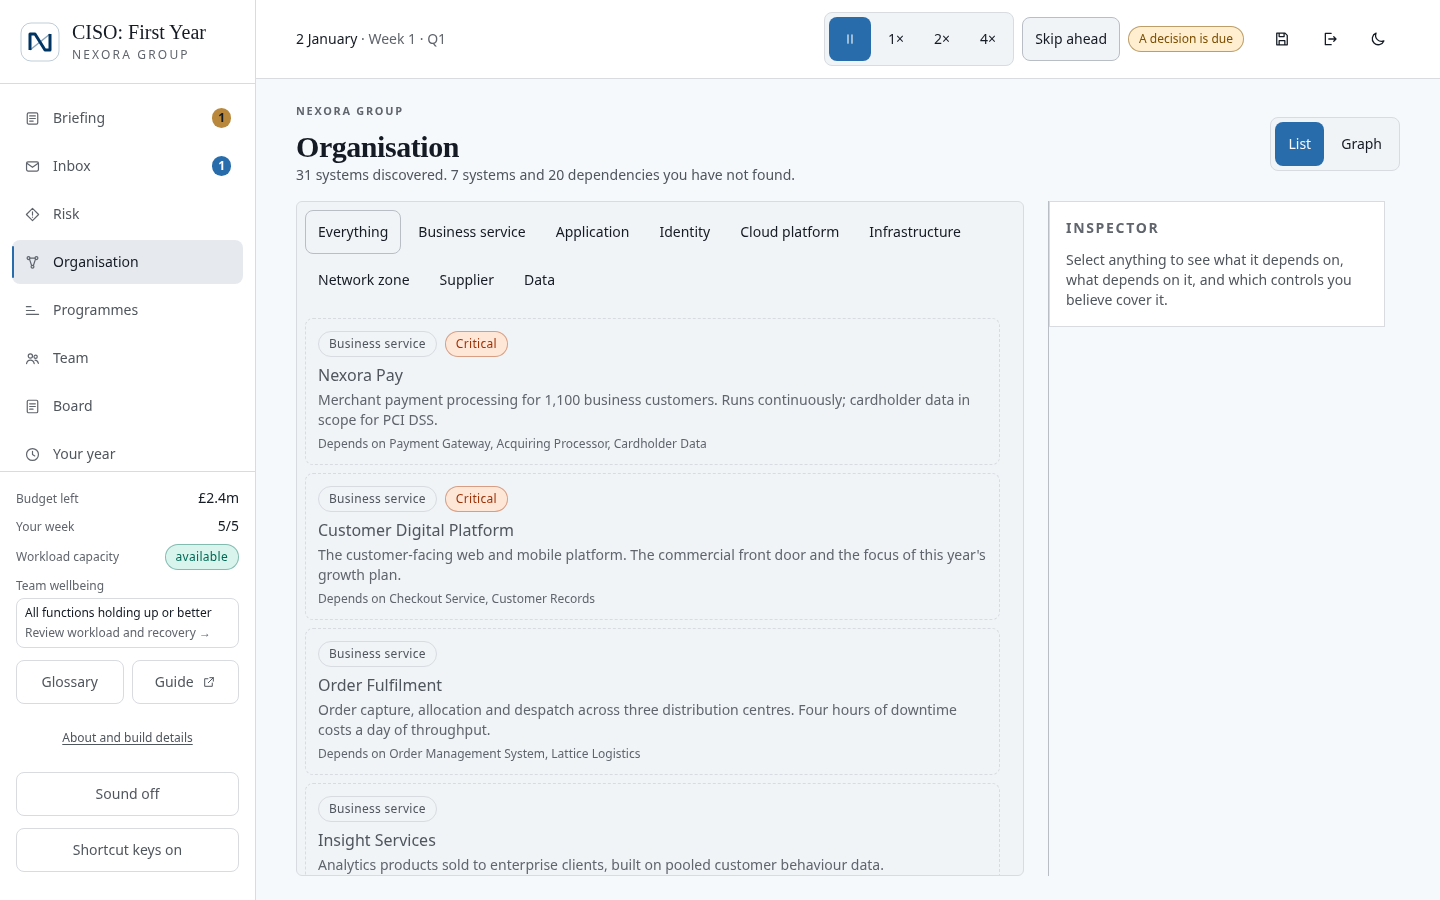
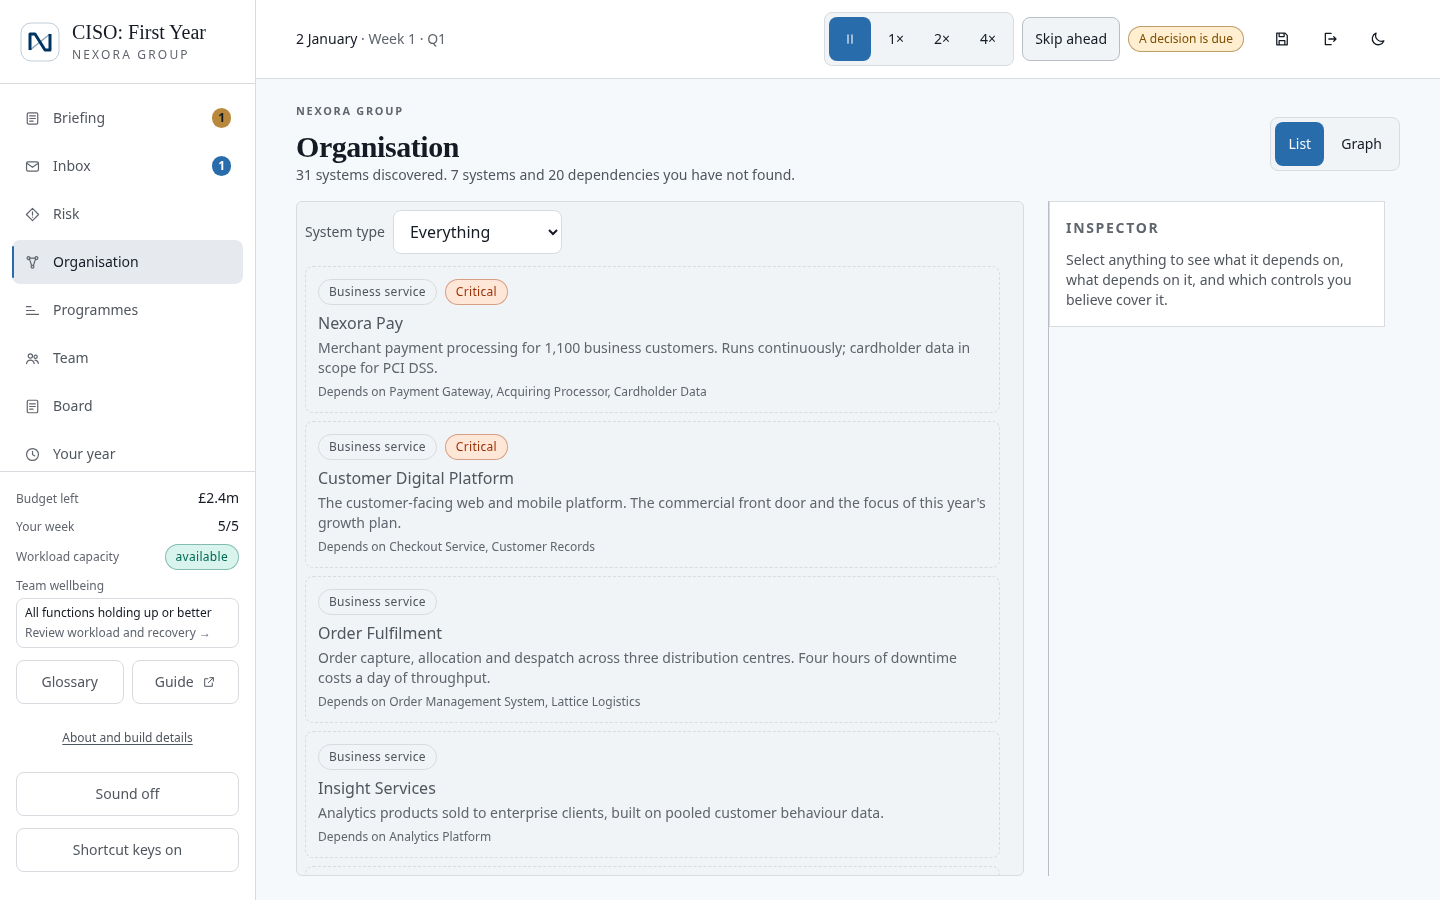
Compact workspace filters and improve stacked detail navigation

diff --git a/src/screens/organisation/OrganisationScreen.tsx b/src/screens/organisation/OrganisationScreen.tsx
@@ -40,7 +40,7 @@ export function OrganisationScreen() {
     if (!detailIsBelowTheList()) return
     requestAnimationFrame(() => {
       const heading = document.querySelector<HTMLElement>('[data-testid="inspector-heading"]')
-      heading?.scrollIntoView({ block: 'start' })
+      heading?.closest('.split-detail')?.scrollIntoView({ block: 'start' })
       heading?.focus({ preventScroll: true })
     })
   }
@@ -94,35 +94,13 @@ export function OrganisationScreen() {
       ) : (
         <div className="split-workspace grid grid-cols-1 gap-4 lg:grid-cols-[minmax(0,1fr)_minmax(0,22rem)]">
           <div className="split-pane space-y-3" tabIndex={0} role="region" aria-label="Organisation browser">
-            {/* Wraps from tablet width up. It scrolled sideways everywhere, and beside
-                the inspector it stopped at "Net" with nothing to say more followed. */}
-            <div
-              className="-mx-1 flex gap-1 overflow-x-auto overscroll-x-contain px-1 pb-1 sm:flex-wrap sm:overflow-visible"
-              role="group"
-              aria-label="Filter by type"
-            >
-              <Button
-                size="sm"
-                variant={filter === 'all' ? 'secondary' : 'ghost'}
-                className="compact min-h-9 shrink-0"
-                aria-pressed={filter === 'all'}
-                onClick={() => setFilter('all')}
-              >
-                Everything
-              </Button>
-              {types.map((type) => (
-                <Button
-                  key={type}
-                  size="sm"
-                  variant={filter === type ? 'secondary' : 'ghost'}
-                  className="compact min-h-9 shrink-0"
-                  aria-pressed={filter === type}
-                  onClick={() => setFilter(type)}
-                >
-                  {nodeTypeLabel(type)}
-                </Button>
-              ))}
-            </div>
+            <label className="flex flex-wrap items-center gap-2 text-sm text-ink-muted">
+              System type
+              <select value={filter} onChange={(event) => setFilter(event.target.value)} className="min-h-11 min-w-0 max-w-full rounded-lg border border-line bg-surface px-3 text-base text-ink">
+                <option value="all">Everything</option>
+                {types.map((type) => <option key={type} value={type}>{nodeTypeLabel(type)}</option>)}
+              </select>
+            </label>
 
             {/* The graph is an enhancement; the list is always available and is
                 the default on small screens (plan §27.1). */}
@@ -177,7 +155,7 @@ export function OrganisationScreen() {
                           <Badge tone="positive" glyph={false}>Checked</Badge>
                         )}
                       </div>
-                      <p className={cn('mt-1.5 font-medium', !node.verified && 'text-ink-muted')}>{node.name}</p>
+                      <p className={cn('choice-title mt-1.5 font-medium', !node.verified && 'text-ink-muted')}>{node.name}</p>
                       <p className={cn('mt-0.5 line-clamp-2 text-sm text-pretty', node.verified ? 'text-ink-muted' : 'text-ink-faint')}>
                         {(state?.year ?? 1) > 1 && <span className="font-medium">When you arrived: </span>}
                         {node.description}

diff --git a/src/components/risk/RiskDetail.tsx b/src/components/risk/RiskDetail.tsx
@@ -3,7 +3,7 @@
  * recorded assumptions, or give it to an executive to own (plan §12.3, §13).
  */
 import { useEffect, useRef, useState } from 'react'
-import { detailIsBelowTheList } from '@/lib/layout/stacked'
+import { detailIsBelowTheList, returnToWorkspaceList } from '@/lib/layout/stacked'
 import { Badge, Button, Card, CardBody, Dialog, Fact, SectionHeading } from '@/components/ui/primitives'
 import { useCampaignIndex, useGameStore } from '@/store/game-store'
 import { Terms } from '@/components/game/Terms'
@@ -12,7 +12,7 @@ import { RISK_BAND_LABEL } from '@/game/risk/bands'
 import { bandTone, confidenceTone, statusLabel } from '@/lib/formatting/labels'
 import { cn } from '@/lib/utils/cn'
 
-export function RiskDetail({ risk, onClose }: { risk: VisibleRisk; onClose: () => void }) {
+export function RiskDetail({ risk }: { risk: VisibleRisk }) {
   const state = useGameStore((store) => store.state)
   const index = useCampaignIndex()
   const dispatch = useGameStore((store) => store.dispatch)
@@ -72,15 +72,11 @@ export function RiskDetail({ risk, onClose }: { risk: VisibleRisk; onClose: () =
     <section ref={panel} tabIndex={-1} aria-label={def.title} className="split-detail outline-none lg:sticky lg:top-24">
     <Card>
       <CardBody className="space-y-4">
-        <div className="flex items-start justify-between gap-3">
-          <div className="flex flex-wrap gap-2">
-            <Badge tone={bandTone(risk.band)}>{RISK_BAND_LABEL[risk.band]} residual</Badge>
-            <Badge tone={confidenceTone(risk.confidence)} glyph={false}>{risk.confidence} confidence</Badge>
-            <Badge tone="neutral" glyph={false}>{statusLabel(risk.status)}</Badge>
-          </div>
-          <Button variant="ghost" size="sm" className="compact min-h-9 px-2.5 lg:hidden" onClick={onClose} aria-label="Close">
-            ✕
-          </Button>
+        <Button variant="secondary" size="sm" className="lg:hidden" onClick={returnToWorkspaceList}>Back to risks</Button>
+        <div className="flex flex-wrap gap-2">
+          <Badge tone={bandTone(risk.band)}>{RISK_BAND_LABEL[risk.band]} residual</Badge>
+          <Badge tone={confidenceTone(risk.confidence)} glyph={false}>{risk.confidence} confidence</Badge>
+          <Badge tone="neutral" glyph={false}>{statusLabel(risk.status)}</Badge>
         </div>
 
         <div>

diff --git a/tests/e2e/reading-flow.spec.ts b/tests/e2e/reading-flow.spec.ts
@@ -115,3 +115,35 @@ test('compact resources stay readable and the final risk tab remains reachable b
   }
   await expectNoHorizontalScroll(page)
 })
+
+test('system filters and stacked detail returns preserve the selected row', async ({ page }) => {
+  await startCampaign(page, 'detail-return')
+  for (const name of ['Risk', 'Organisation']) {
+    await goTo(page, name)
+    if (name === 'Organisation') {
+      if (page.viewportSize()!.width >= 640) await page.getByRole('button', { name: 'List', exact: true }).click()
+      const filter = page.getByRole('combobox', { name: 'System type' })
+      await filter.selectOption('service')
+      const rows = page.getByRole('list', { name: 'Discovered systems' }).getByRole('button')
+      for (const row of await rows.all()) await expect(row).toContainText('Business service')
+      await filter.selectOption('all')
+    }
+    const row = page.locator('.workspace-choice').nth(1)
+    await row.click()
+    await expect(row).toHaveAttribute('aria-current', 'true')
+    if (page.viewportSize()!.width < 1024) {
+      const back = page.getByRole('button', { name: name === 'Risk' ? 'Back to risks' : 'Back to systems', exact: true })
+      await expect(back).toBeInViewport()
+      await expect.poll(async () => {
+        const control = await back.boundingBox()
+        const header = await page.locator('header[data-print="hide"]').boundingBox()
+        return control!.y - (header!.y + header!.height)
+      }).toBeGreaterThanOrEqual(8)
+      await back.click()
+      await expect(row).toBeFocused()
+      await expect(row).toBeInViewport()
+      await expect(row).toHaveAttribute('aria-current', 'true')
+    }
+    await expectNoHorizontalScroll(page)
+  }
+})

diff --git a/src/components/organisation/NodeInspector.tsx b/src/components/organisation/NodeInspector.tsx
@@ -1,6 +1,6 @@
 import { useEffect, useRef, useState } from 'react'
-import { detailIsBelowTheList } from '@/lib/layout/stacked'
-import { Badge, Card, CardBody, Fact, SectionHeading } from '@/components/ui/primitives'
+import { detailIsBelowTheList, returnToWorkspaceList } from '@/lib/layout/stacked'
+import { Badge, Button, Card, CardBody, Fact, SectionHeading } from '@/components/ui/primitives'
 import type { DiscoveredNodeView } from '@/store/selectors'
 import { useGameStore } from '@/store/game-store'
 import { controlBandTone, nodeTypeLabel } from '@/lib/formatting/labels'
@@ -43,7 +43,10 @@ export function NodeInspector({ node, onSelect }: { node: DiscoveredNodeView; on
 
   useEffect(() => {
     heading.current?.closest<HTMLElement>('.split-pane')?.scrollTo?.(0, 0)
-    if (arrived) heading.current?.focus()
+    if (arrived) {
+      heading.current?.focus({ preventScroll: true })
+      if (detailIsBelowTheList()) heading.current?.closest('.split-detail')?.scrollIntoView({ block: 'start' })
+    }
   }, [arrived, shown])
 
   const walk = (id: string) => {
@@ -54,6 +57,7 @@ export function NodeInspector({ node, onSelect }: { node: DiscoveredNodeView; on
   return (
     <Card className="split-detail border-t-2 border-t-accent lg:sticky lg:top-24">
       <CardBody className="space-y-4">
+        <Button variant="secondary" size="sm" className="lg:hidden" onClick={returnToWorkspaceList}>Back to systems</Button>
         <p className="document-kicker text-accent-ink">Selected system</p>
         {trail.length > 1 && (
           <nav aria-label="Your walk through the estate" data-testid="walk-trail">

diff --git a/src/screens/risk/RiskScreen.tsx b/src/screens/risk/RiskScreen.tsx
@@ -71,7 +71,7 @@ export function RiskScreen() {
                         'workspace-choice w-full rounded-[--radius-card] border border-line bg-surface p-4 text-left transition-colors',
                       )}
                     >
-                      <h3 className="font-medium text-balance">{risk.title}</h3>
+                      <h3 className="choice-title font-medium text-balance">{risk.title}</h3>
                       <p className="mt-1 line-clamp-2 text-sm text-ink-muted text-pretty">{risk.statement}</p>
                       <div className="risk-comparison-grid mt-3">
                         <div><p className="comparison-label">Residual risk</p><Badge tone={bandTone(risk.band)}>{RISK_BAND_LABEL[risk.band]}</Badge></div>
@@ -119,7 +119,7 @@ export function RiskScreen() {
               </ul>
               <div className="split-pane" tabIndex={0} role="region" aria-label="Risk details">
                 {selected ? (
-                  <RiskDetail risk={selected} onClose={() => setUi({ selectedScenarioId: undefined })} />
+                  <RiskDetail risk={selected} />
                 ) : (
                   <Card className="split-detail risk-inspector-prompt bg-surface-2 lg:sticky lg:top-24">
                     <CardBody>

diff --git a/src/screens/inbox/InboxScreen.tsx b/src/screens/inbox/InboxScreen.tsx
@@ -150,14 +150,14 @@ export function InboxScreen() {
                     <Icon name={MESSAGE_KIND[message.type].icon} size={14} />{MESSAGE_KIND[message.type].label}
                   </p>
                   <div className="flex items-baseline justify-between gap-2">
-                    <span className={cn('truncate text-sm', message.read ? 'text-ink-muted' : 'font-semibold')}>
+                    <span className={cn('message-sender min-w-0 text-sm', message.read ? 'text-ink-muted' : 'font-semibold')}>
                       {message.from}
                     </span>
                     {/* A date, as the header gives one. "d0" beside a header
                         reading 2 January read as a mistake. */}
                     <span className="shrink-0 text-xs tabular-nums text-ink-faint">{shortDate(message.day)}</span>
                   </div>
-                  <p className={cn('mt-2 line-clamp-2 leading-snug text-pretty text-ink', !message.read && 'font-semibold')}>
+                  <p className={cn('choice-title mt-2 line-clamp-2 leading-snug text-pretty text-ink', !message.read && 'font-semibold')}>
                     {message.subject}
                   </p>
                   <div className="mt-1.5 flex flex-wrap gap-1.5">

diff --git a/src/index.css b/src/index.css
@@ -732,3 +732,13 @@ html[data-gameplay-scroll="true"], html[data-gameplay-scroll="true"] body {
   .split-detail h2 { overflow-wrap: anywhere; }
   .split-detail button, .message-reader button { white-space: normal; }
 }
+
+.workspace-choice[aria-current="true"] .choice-title { font-weight: 600; color: var(--ink); }
+.message-sender { display: -webkit-box; -webkit-box-orient: vertical; -webkit-line-clamp: 2; overflow: hidden; }
+@media (min-width: 768px) and (max-width: 1279px) {
+  .message-reader .message-letterhead { margin-bottom: 0.75rem; padding-bottom: 0.5rem; }
+  .message-reader .sender-signature { padding-block: 0.75rem; }
+  .message-reader .sender-signature > span[aria-hidden] { width: 3.5rem; height: 3.5rem; border-radius: 0.75rem; }
+  .message-reader .correspondence-body { margin-top: 1rem; }
+}
+@media (max-width: 1023px) { .split-detail { scroll-margin-top: 9rem; } }

diff --git a/src/lib/layout/stacked.ts b/src/lib/layout/stacked.ts
@@ -7,3 +7,11 @@
 export function detailIsBelowTheList(): boolean {
   return typeof window.matchMedia === 'function' && !window.matchMedia('(min-width: 1024px)').matches
 }
+
+/** Restore the selected row without changing selection or list membership. */
+export function returnToWorkspaceList() {
+  const row = document.querySelector<HTMLElement>('#main .workspace-choice[aria-current="true"]')
+    ?? document.querySelector<HTMLElement>('#main .workspace-choice')
+  row?.scrollIntoView({ block: 'center' })
+  row?.focus({ preventScroll: true })
+}

diff --git a/tests/e2e/scrolling.spec.ts b/tests/e2e/scrolling.spec.ts
@@ -53,7 +53,7 @@ for (const theme of ['light', 'dark'] as const) {
         : name === 'Risk'
           ? main.getByRole('tablist', { name: 'Risk workspace' })
         : name === 'Organisation'
-          ? main.getByRole('button', { name: 'Everything', exact: true }).locator('..')
+          ? main.getByRole('combobox', { name: 'System type' }).locator('..')
           : undefined
       await scrollWithWheel(page, filters)
       const controls = main.locator('button:visible:not([disabled]), a[href]:visible, summary:visible')

diff --git a/README.md b/README.md
@@ -148,6 +148,10 @@ minimum touch height and stays reachable inside its scroll pane. The panes have
 separate frames and a wider gutter; Inbox gives the reader more room on tablets.
 Messages, risks and systems share a consistent selection cue. Message subjects
 lead the reading hierarchy, with quieter metadata and roomier phone spacing.
+Tablet correspondence uses a compact letterhead and sender block; list sender
+names can wrap to two lines. Organisation’s labelled System type dropdown keeps
+filters compact. On stacked layouts, Back to risks / Back to systems restores
+the selected row, and detail openings leave space beneath the fixed toolbar.
 
 During gameplay, root overscroll controls and a targeted touch fallback suppress
 accidental pull-to-refresh at the top of a page. Normal scrolling, dialog readers,

diff --git a/AGENTS.md b/AGENTS.md
@@ -32,6 +32,11 @@ changes.
 
 ## Artwork
 
+- Organisation uses a labelled native System type filter. Stacked risk/system
+  detail panels expose a return action that restores the selected row’s focus
+  without clearing selection. Keep these actions below the fixed header when
+  opening details, including dependency walks, and verify at 320px and tablet.
+
 - Split-workspace choices share the `workspace-choice` selection cue and
   `aria-current`. Keep selection geometry stable, preserve unverified systems’
   dashed outlines, and distinguish hover from selection in both themes.

diff --git a/docs/PLAYER_GUIDE.md b/docs/PLAYER_GUIDE.md
@@ -302,6 +302,10 @@ new players most often skip. Do not skip it.
 The graph labels direct neighbours **Directly connected**. The selected system
 and its inspector share an accent; arrows point towards dependencies.
 
+Use **System type** to filter the discovered systems. On phones and stacked
+tablet layouts, **Back to systems** returns to the selected row. Risk details
+have the equivalent **Back to risks** action.
+
 ![The Organisation view](images/06-organisation.png)
 
 Every system, supplier, network and data set, and what depends on what. Use
